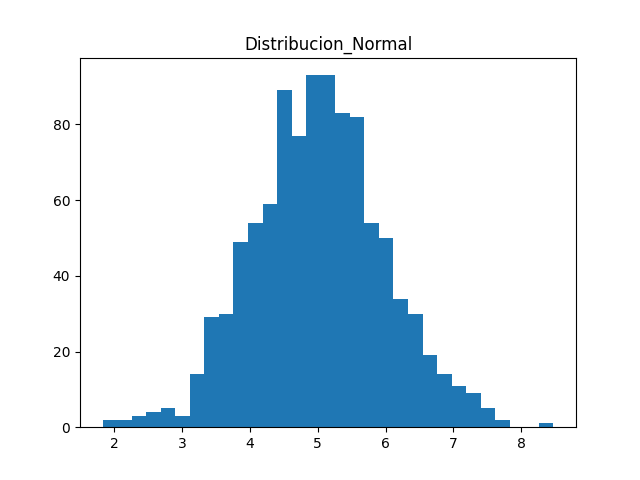
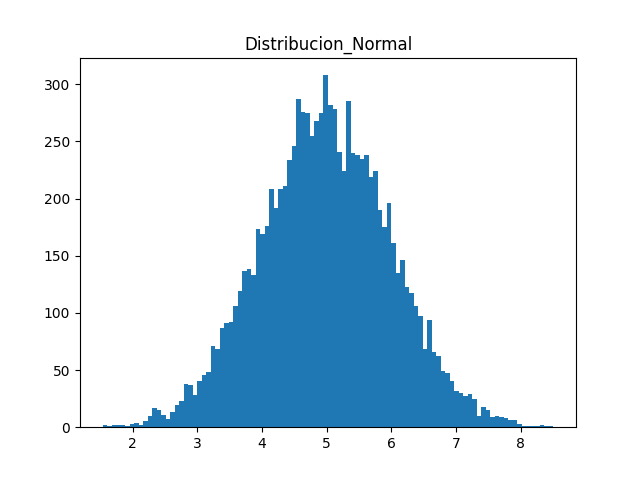
Default error message removed to set a conditional as param to show or not the message && Readme update && Test with plot histogram updated

diff --git a/pscript.py b/pscript.py
@@ -494,11 +494,11 @@ def left_right(p):
 # Probabilistic distributions:
 
 
-def get_default_value(env_key, default_value, error_message=None, warning_message=None):
+def get_default_value(env_key, default_value, error_message=None, warning_message=None, condition=False):
     value = env.get(env_key, default_value)
-    if value != default_value and error_message is not None:
+    if condition:
         print(
-            Fore.RED + f"Error: {error_message}. Defaulting to {value}. Replace it using "
+            Fore.RED + f"Error: {error_message} Defaulting to {value}. Replace it using "
                        f"{env_key}=<{type(value).__name__}>;" + Style.RESET_ALL)
         value = default_value
         print(Fore.YELLOW + f"Warning: The default value {value} will be used in the meantime." + Style.RESET_ALL)
@@ -511,38 +511,41 @@ def get_default_value(env_key, default_value, error_message=None, warning_messag
 
 def default_seed():
     v_default = 1
-    return get_default_value('SEED', v_default, "SEED not set.", f"SEED not set.")
+    return get_default_value('SEED', v_default, warning_message=f"SEED not set.")
 
 
 def default_success():
     v_default = 0.5
     return get_default_value('SUCCESS', v_default, "SUCCESS must be between 0 and 1.",
-                             f"SUCCESS not set. Must be a value between 0 and 1.")
+                             f"SUCCESS not set. Must be a value between 0 and 1.",
+                             condition=(env['SUCCESS'] < 0 or env['SUCCESS'] > 1))
 
 
 def default_mu():
     v_default = 5
-    return get_default_value('MU', v_default, "MU not set.", f"MU not set.")
+    return get_default_value('MU', v_default, warning_message=f"MU not set.")
 
 
 def default_sigma():
     v_default = 1
-    return get_default_value('SIGMA', v_default, "SIGMA not set.", f"SIGMA not set.")
+    return get_default_value('SIGMA', v_default, warning_message=f"SIGMA not set.")
 
 
 def default_lambda():
     v_default = 80
-    return get_default_value('LAMBDA', v_default, "LAMBDA not set.", f"LAMBDA not set.")
+    return get_default_value('LAMBDA', v_default, warning_message=f"LAMBDA not set.")
 
 
 def default_lim_sup():
     v_default = 100
-    return get_default_value('LIM_SUP', v_default, "LIM_INF must be smaller than LIM_SUP.", f"LIM_SUP not set.")
+    return get_default_value('LIM_SUP', v_default, "LIM_INF must be smaller than LIM_SUP.", f"LIM_SUP not set.",
+                             condition=(env['LIM_INF'] > env['LIM_SUP']))
 
 
 def default_lim_inf():
     v_default = 0
-    return get_default_value('LIM_INF', v_default, "LIM_INF must be smaller than LIM_SUP.", f"LIM_INF not set.")
+    return get_default_value('LIM_INF', v_default, "LIM_INF must be smaller than LIM_SUP.", f"LIM_INF not set.",
+                             condition=(env['LIM_INF'] > env['LIM_SUP']))
 
 
 list_distributions = {

diff --git a/README.md b/README.md
@@ -5,6 +5,20 @@ PScript (Probabilistic Script) is a programming language designed to facilitate 
 - Previous work that was used to build this project can be found as [SigmaScript](https://github.com/jahelsantiago/Sigmascript), a project developed by members of the current team.
 
 
+## Features
+- [x] Basic arithmetic operations
+- [x] Basic logical operations
+- [x] Basic conditional statements
+- [x] Basic loops (while)
+- [x] Basic functions
+- [x] Basic multidimensional arrays 
+- [x] Basic variables without type inference
+- [x] Basic probability distributions (Exponential, Normal, Uniform, Poisson, Geometric)
+- [x] Stochastic variables (when the variable is called, always returns different values)
+- [x] Stochastic arrays (when the array is called, always returns different values)
+- [x] Console input and output
+- [x] File input and output un txt format with PScript syntax
+
 ## How to use
 1. Clone this repository using :
    ```
